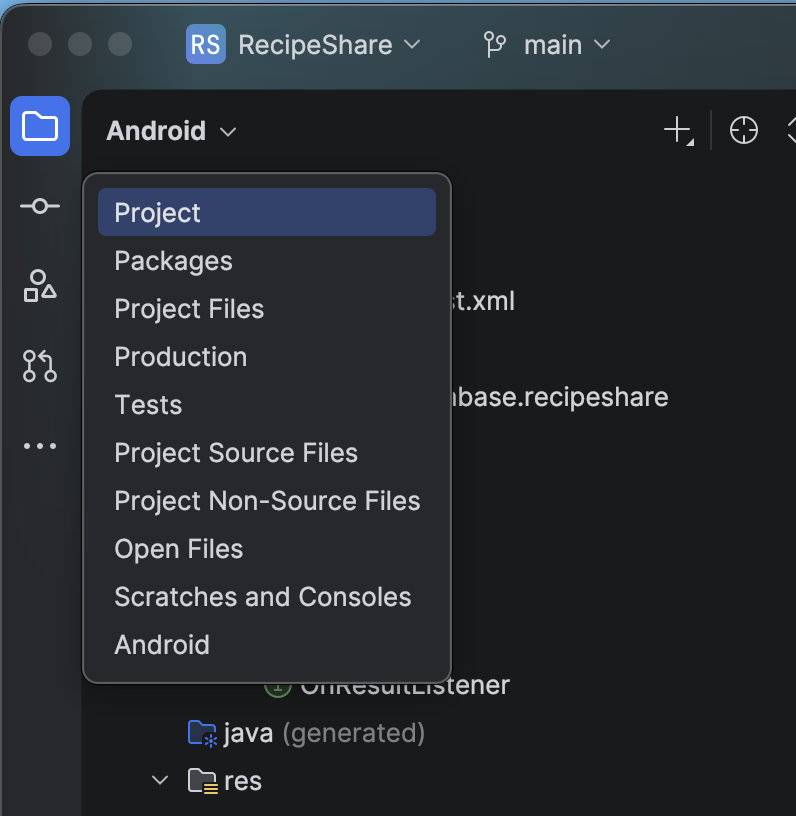
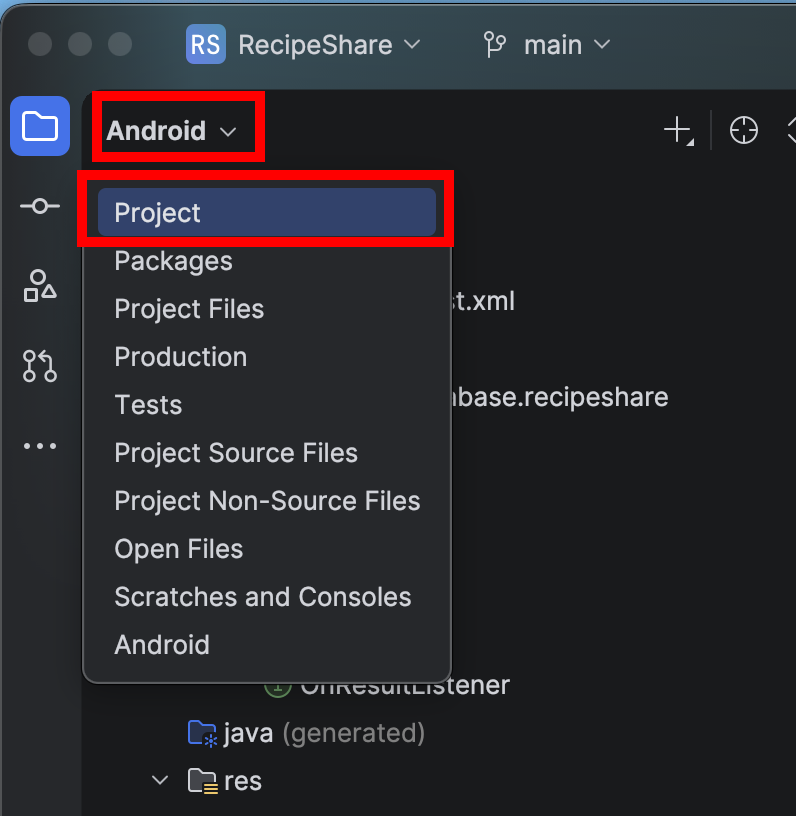
Fusabase recipe android wmsid 12075 polish: connect-starter instructions and screenshots

Changed region(s): [[0.0905, 0.0919, 0.5729, 0.3064]]

diff --git a/fusabase/android/connect-starter-app/connect-starter-app.md b/fusabase/android/connect-starter-app/connect-starter-app.md
@@ -45,11 +45,11 @@ This lab assumes you have:
 5. While Android Studio is indexing, take a quick look at the structure.
 
     - `app/java/com.oracle.fusabase.recipeshare/auth/` — the Authentication code lives here. `AuthRepository.java` is the file you'll edit in Lab 3.
-    ![Fusabase console showing the generated fusabase-config.json](images/auth.png =75%x*)
+    ![Fusabase console showing the generated fusabase-config.json](images/auth.png =65%x*)
 
 
     - `app/java/com.oracle.fusabase.recipeshare/recipeshare/recipes/` — the Database and Storage code lives here. `RecipeRepository.java` is the file you'll edit in Labs 4 through 7.
-    ![Fusabase console showing the generated fusabase-config.json](images/recipes.png =75%x*)
+    ![Fusabase console showing the generated fusabase-config.json](images/recipes.png =65%x*)
 
     - `app/fusabase-config.json` — the config file the Fusabase Gradle plugin reads at build time. You'll fill this in during Task 4 of this lab.
 
@@ -60,7 +60,7 @@ This lab assumes you have:
 
 2. In the project home page, click the Android icon to register a new Android app.
 
-    ![Fusabase console project home with the Android app icon highlighted](images/android.png =85%x*)
+    ![Fusabase console project home with the Android app icon highlighted](images/android.png =65%x*)
 
 3. In the **Register Android app** dialog, enter the application ID from the starter project:
 
@@ -68,7 +68,7 @@ This lab assumes you have:
     <copy>com.oracle.fusabase.recipeshare</copy>
     ```
 
-    ![Fusabase console project home with the Android app icon highlighted](images/register.png =85%x*)
+    ![Fusabase console project home with the Android app icon highlighted](images/register.png =65%x*)
 
 
 4. Click **Register app**. The console generates the integration steps for your app — first the **Add SDK** step, then the **Get config** step.
@@ -81,7 +81,11 @@ The console's **Add SDK** step shows two snippets — one for the project-level 
 
 1. Keep the **Add SDK** step open in the console as a reference. The snippets below match what the console shows on the **Package Manager** tab.
 
-    ![Fusabase console showing the SDK install snippets](images/package.png =85%x*)
+    ![Fusabase console showing the SDK install snippets](images/package.png =75%x*)
+
+2. Switch to the project folder 
+    ![Fusabase console showing the SDK install snippets](images/project.png =45%x*)
+
 
 2. Open the project-level `build.gradle.kts` (at `RecipeShare/build.gradle.kts`, **not** the one inside `app/`). Add a `buildscript` block **below** the existing `plugins` block:
 
@@ -98,12 +102,16 @@ The console's **Add SDK** step shows two snippets — one for the project-level 
     ```
 
     This puts the Fusabase Gradle plugin on the build classpath so the next file can apply it.
+    ![Fusabase console showing the SDK install snippets](images/build.png =55%x*)
+
 
 3. Open `app/build.gradle.kts`. Add the plugin id inside the existing `plugins { ... }` block:
 
     ```kotlin
     <copy>id("com.oracle.mobile.fusabase-gradle-plugin")</copy>
     ```
+    ![Fusabase console showing the SDK install snippets](images/add-sdk.png =55%x*)
+
 
 4. In the same file, add the SDK as a dependency. At the top of the existing `dependencies { ... }` block, add:
 
@@ -126,7 +134,7 @@ The console's **Add SDK** step shows two snippets — one for the project-level 
 
 2. In Android Studio's **Project** view (top left), expand the `app` module. You'll find a placeholder `fusabase-config.json` at the module root with `"PASTE FROM CONSOLE"` strings.
 
-    ![Fusabase console project home with the Android app icon highlighted](images/project.png =85%x*)
+    ![Fusabase console project home with the Android app icon highlighted](images/project.png =45%x*)
 
 3. Open `app/fusabase-config.json` and replace the entire contents with the JSON the console gave you. It looks like:
 